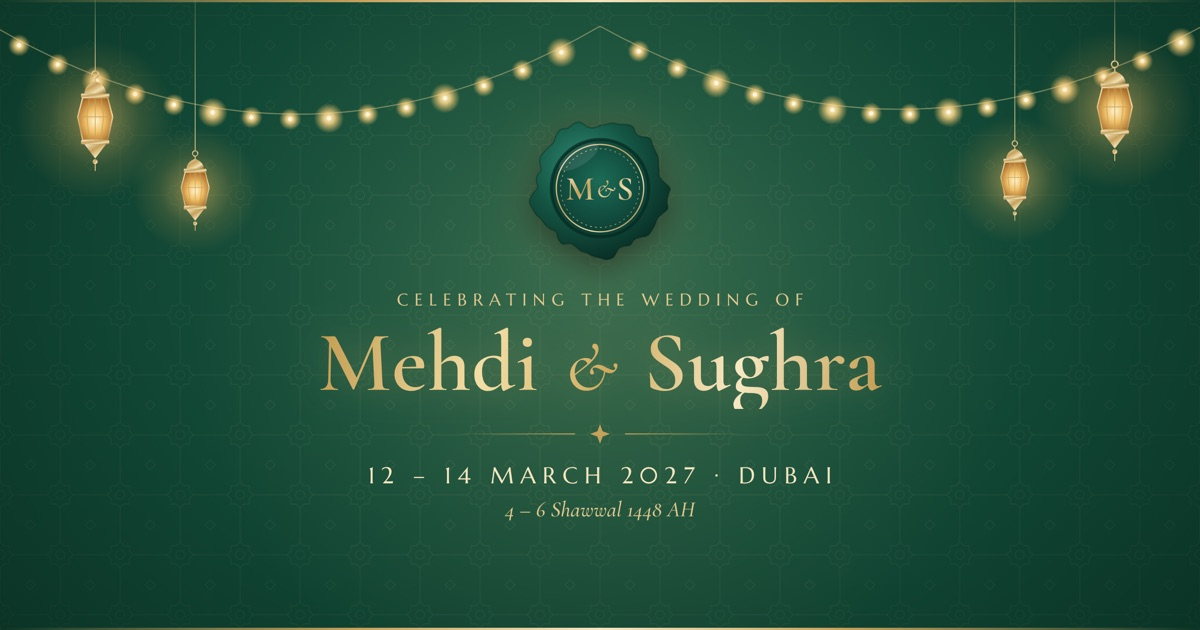
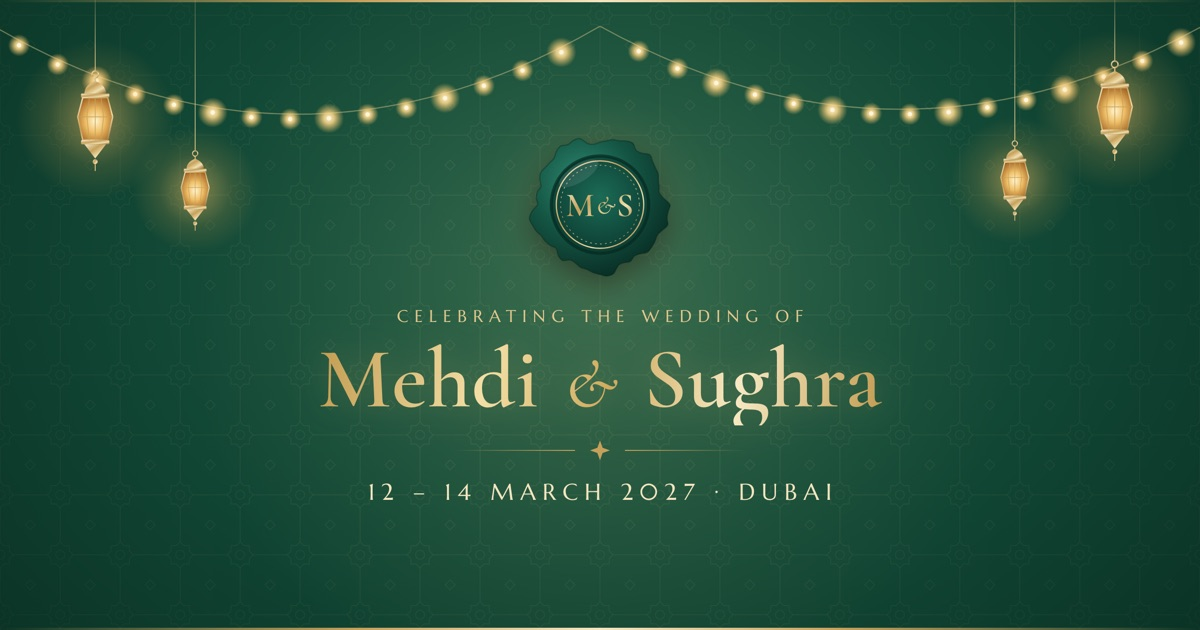
Remove Hijri dates and second dua; red tap text; livelier scroll cue
- No Hijri dates anywhere (hero, event cards, timeline, link preview image)
- Only the Al-Furqan 25:74 dua remains
- "Tap the seal to open" in deep red
- Hero kicker, parents' lines and city 2px larger; compliments larger
- Scroll cue glows with a cascading double chevron
- RSVP deadline 1 February 2027

diff --git a/index.html b/index.html
@@ -134,7 +134,7 @@ html:not(.js) #intro{display:none}
 .intro-overlay{position:absolute;inset:0;display:grid;grid-template-rows:1fr var(--seal) 1fr;justify-items:center;text-align:center;padding:0 24px;pointer-events:none;transition:opacity .45s ease}
 #intro.cracking .intro-overlay{opacity:0}
 .intro-bottom{grid-row:3;align-self:start;padding-top:clamp(22px,4vh,40px)}
-.intro-tap{font-family:var(--caps);font-size:.72rem;letter-spacing:.3em;text-transform:uppercase;color:var(--em-700);animation:breathe 2.4s ease-in-out infinite}
+.intro-tap{font-family:var(--caps);font-size:.72rem;letter-spacing:.3em;text-transform:uppercase;color:#B0222C;animation:breathe 2.4s ease-in-out infinite}
 .seal-btn{grid-row:2;align-self:center;width:var(--seal);height:var(--seal);border-radius:50%;border:0;background:none;padding:0;cursor:pointer;pointer-events:auto;animation:ring 2.4s ease-out infinite}
 .seal-btn:focus-visible{outline:2px solid var(--em-700);outline-offset:6px}
 .seal-btn svg{display:block;width:100%;height:100%;pointer-events:none;filter:drop-shadow(0 7px 10px rgba(30,20,5,.38))}
@@ -194,23 +194,28 @@ html:not(.js) #intro{display:none}
 .crest-mono{font-family:var(--script);font-size:29px}
 .crest-amp{font-family:var(--script);font-size:19px}
 
-.hero .kicker{font-family:var(--caps);font-size:.66rem;letter-spacing:.3em;white-space:nowrap;text-transform:uppercase;color:var(--gold-2)}
+.hero .kicker{font-family:var(--caps);font-size:calc(.66rem + 2px);letter-spacing:.3em;white-space:nowrap;text-transform:uppercase;color:var(--gold-2)}
 .names{margin:.55em 0 0;font-size:clamp(2rem,8.6vw,3.5rem);line-height:1.06;font-weight:600;letter-spacing:.005em;filter:drop-shadow(0 0 16px rgba(233,196,120,.28))}
 .names .n{display:block}
 .sheen{display:inline-block;padding:0 .05em .1em;background:linear-gradient(105deg,rgba(255,250,230,0) 42%,rgba(255,250,232,.95) 50%,rgba(255,250,230,0) 58%),linear-gradient(100deg,#C29B50 0%,#F3DFA6 30%,#CFAA5E 52%,#F7E9C3 74%,#B8914A 100%);background-size:300% 100%,100% 100%;background-position:100% 0,0 0;background-repeat:no-repeat;-webkit-background-clip:text;background-clip:text;color:transparent;animation:sheen 7s ease-in-out 3s infinite}
 .sheen.later{animation-delay:3.6s}
 @keyframes sheen{0%{background-position:100% 0,0 0}30%,100%{background-position:0% 0,0 0}}
-.names .parent{display:block;font-size:clamp(.88rem,3.4vw,1.06rem);font-style:italic;font-weight:500;letter-spacing:.01em;line-height:1.4;color:rgba(245,231,193,.78);margin-top:.35em}
+.names .parent{display:block;font-size:clamp(calc(.88rem + 2px),calc(3.4vw + 2px),calc(1.06rem + 2px));font-style:italic;font-weight:500;letter-spacing:.01em;line-height:1.4;color:rgba(245,231,193,.78);margin-top:.35em}
 .names .amp{display:block;font-style:italic;font-weight:400;font-size:.86em;line-height:1.15;color:var(--gold-2);margin:.18em 0 .08em}
 .amp-g{display:inline-block;animation:ampGlow 4.5s ease-in-out infinite}
 @keyframes ampGlow{0%,100%{text-shadow:0 0 0 rgba(240,205,130,0)}50%{text-shadow:0 0 20px rgba(240,205,130,.95)}}
 .hero .ornament{color:var(--gold);margin:20px auto 14px;width:min(200px,62%)}
 .hero-date{font-family:var(--caps);font-size:clamp(.82rem,3.4vw,1.02rem);letter-spacing:.26em;color:var(--gold-3);text-transform:uppercase}
-.hero-hijri{font-style:italic;color:var(--gold-2);margin-top:4px;font-size:1.02rem}
-.hero-city{font-family:var(--caps);font-size:.66rem;letter-spacing:.44em;text-transform:uppercase;color:var(--gold-2);margin-top:14px}
+.hero-city{font-family:var(--caps);font-size:calc(.66rem + 2px);letter-spacing:.44em;text-transform:uppercase;color:var(--gold-2);margin-top:14px}
 .scroll-cue{position:absolute;bottom:calc(14px + env(safe-area-inset-bottom,0px));left:50%;transform:translateX(-50%);z-index:7;display:flex;flex-direction:column;align-items:center;gap:4px;font-family:var(--caps);font-size:.62rem;letter-spacing:.32em;text-transform:uppercase;color:var(--gold-2);text-decoration:none;padding:6px 10px}
-.scroll-cue svg{animation:bob 2s ease-in-out infinite}
-@keyframes bob{0%,100%{transform:translateY(0)}50%{transform:translateY(5px)}}
+.scroll-cue{color:var(--gold-3)}
+.scroll-cue .cue-txt{animation:cueGlow 2.4s ease-in-out infinite}
+.scroll-cue svg{overflow:visible;animation:bob 1.8s ease-in-out infinite}
+.scroll-cue svg path{animation:cueChev 1.8s ease-in-out infinite}
+.scroll-cue svg path+path{animation-delay:.25s}
+@keyframes cueGlow{0%,100%{opacity:.75;text-shadow:0 0 0 rgba(245,214,140,0)}50%{opacity:1;text-shadow:0 0 10px rgba(245,214,140,.85),0 0 22px rgba(245,214,140,.35)}}
+@keyframes cueChev{0%,100%{opacity:.3}50%{opacity:1}}
+@keyframes bob{0%,100%{transform:translateY(0)}50%{transform:translateY(6px)}}
 .js .rise{opacity:0;transform:translateY(18px)}
 .js.revealed .rise{animation:rise 1.3s var(--ease) forwards;animation-delay:calc(1s + var(--i,0) * .15s)}
 @keyframes rise{to{opacity:1;transform:none}}
@@ -298,7 +303,6 @@ html:not(.js) #intro{display:none}
 .ev-tag{font-family:var(--caps);font-size:.64rem;letter-spacing:.3em;text-transform:uppercase;color:var(--gold-deep);padding:6px 14px 5px;border:1px solid var(--line);border-radius:99px;background:rgba(198,161,91,.08)}
 .ev-title{font-size:2.05rem;color:var(--em-800);margin:14px 0 6px;line-height:1.1}
 .ev-date{font-family:var(--caps);letter-spacing:.06em;font-size:.98rem;color:var(--ink)}
-.ev-hijri{font-style:italic;color:var(--gold-deep);font-size:1rem}
 .ev-time{color:var(--ink-2);font-size:1.05rem;margin-top:2px}
 .ev-rule{display:block;width:64px;height:1px;background:var(--line);margin:18px auto}
 .ev-venue{font-weight:600;font-size:1.4rem;color:var(--em-800);line-height:1.2;max-width:16em}
@@ -319,7 +323,6 @@ html:not(.js) #intro{display:none}
   .when-day{font-family:var(--script);font-size:2.7rem;line-height:1.1;color:var(--gold)}
   .when-num{font-size:7rem;line-height:.9;font-weight:500;color:var(--em-800);font-variant-numeric:lining-nums}
   .when-month{font-family:var(--caps);font-size:.8rem;letter-spacing:.3em;text-transform:uppercase;color:var(--ink-2);margin-top:10px}
-  .when-hijri{font-style:italic;color:var(--gold-deep);margin-top:4px}
 }
 
 .btn{position:relative;overflow:hidden;display:inline-flex;align-items:center;justify-content:center;gap:10px;min-height:50px;padding:12px 22px;border-radius:999px;font-family:var(--caps);font-size:.76rem;letter-spacing:.2em;text-transform:uppercase;text-decoration:none;cursor:pointer;border:1px solid transparent;transition:transform .2s var(--ease),box-shadow .2s,background-color .2s,color .2s;user-select:none;-webkit-user-select:none}
@@ -382,7 +385,7 @@ textarea.input:focus{box-shadow:0 0 0 1px var(--em-700)}
 .closing{padding-bottom:calc(46px + env(safe-area-inset-bottom,0px))}
 .closing-msg{max-width:30em;margin:14px auto 0;font-size:1.22rem;color:rgba(245,231,193,.94)}
 .compl{margin-top:34px}
-.compl ul{list-style:none;padding:0;margin:10px 0 0;color:rgba(245,231,193,.86);font-style:italic;font-size:1.1rem;line-height:1.7}
+.compl ul{list-style:none;padding:0;margin:12px 0 0;color:rgba(245,231,193,.9);font-style:italic;font-size:1.35rem;line-height:1.6}
 .hashtag{font-family:var(--caps);letter-spacing:.2em;color:var(--gold-2);margin-top:34px}
 .closing .btn{margin-top:22px}
 .footer-mini{margin-top:50px;font-family:var(--caps);font-size:.62rem;letter-spacing:.32em;text-transform:uppercase;color:rgba(245,231,193,.5)}
@@ -488,13 +491,12 @@ textarea.input:focus{box-shadow:0 0 0 1px var(--em-700)}
     </h1>
     <div class="ornament rise" style="--i:4"></div>
     <p class="hero-date rise" style="--i:5" id="heroDate"></p>
-    <p class="hero-hijri rise" style="--i:5" id="heroHijri"></p>
     <p class="hero-city rise" style="--i:6" data-t="city"></p>
   </div>
 
   <canvas class="fx fx-front" id="fxFront" aria-hidden="true"></canvas>
-  <a class="scroll-cue" href="#invite">Scroll
-    <svg width="18" height="18" viewBox="0 0 24 24" fill="none" stroke="currentColor" stroke-width="1.5" aria-hidden="true"><path d="M6 9l6 6 6-6"/></svg>
+  <a class="scroll-cue" href="#invite"><span class="cue-txt">Scroll</span>
+    <svg width="20" height="22" viewBox="0 0 24 26" fill="none" stroke="currentColor" stroke-width="1.6" stroke-linecap="round" stroke-linejoin="round" aria-hidden="true"><path d="M6 5l6 6 6-6"/><path d="M6 13l6 6 6-6"/></svg>
   </a>
 </header>
 
@@ -559,12 +561,6 @@ textarea.input:focus{box-shadow:0 0 0 1px var(--em-700)}
       <p class="dua-tr reveal">Rabbanā hab lanā min azwājinā wa dhurriyyātinā qurrata aʿyunin wajʿalnā lil-muttaqīna imāmā</p>
       <p class="dua-en reveal">“Our Lord, grant us joy and comfort in our spouses and our children, and make us leaders of the God-conscious.”</p>
       <p class="cite reveal">Surah Al-Furqan · 25:74</p>
-
-      <div class="ornament reveal"></div>
-
-      <p class="dua-ar reveal" lang="ar">وَمِنْ آيَاتِهِ أَنْ خَلَقَ لَكُم مِّنْ أَنفُسِكُمْ أَزْوَاجًا لِّتَسْكُنُوا إِلَيْهَا وَجَعَلَ بَيْنَكُم مَّوَدَّةً وَرَحْمَةً</p>
-      <p class="dua-en reveal">“And among His signs is that He created for you spouses from among yourselves, that you may find tranquillity in them; and He placed between you affection and mercy.”</p>
-      <p class="cite reveal">Surah Ar-Rum · 30:21</p>
     </div>
   </section>
 
@@ -719,7 +715,7 @@ const WEDDING = {
   ],
 
   rsvp: {
-    deadline: "1 March 2027",
+    deadline: "1 February 2027",
     whatsapp: "+1 (469) 971-0307",   // RSVPs go to this WhatsApp number (include the country code)
   },
 
@@ -772,28 +768,6 @@ const WEDDING = {
     if (e <= s) e = new Date(e.getTime() + 864e5);
     return e;
   };
-  /* Hijri dates. Some phones have the Islamic calendar but not its English month names, and fall back to
-     Gregorian names (Shawwal is month 10, so it showed as "October"). So ask for numbers only and name the
-     month here. Phones with no Islamic calendar at all hide the Hijri line rather than risk a wrong date. */
-  const HIJRI_MONTHS = ["Muharram", "Safar", "Rabi al-Awwal", "Rabi al-Thani", "Jumada al-Ula", "Jumada al-Akhirah", "Rajab", "Shaban", "Ramadan", "Shawwal", "Dhul Qadah", "Dhul Hijjah"];
-  let hijriFmt = null;
-  try {
-    const f = new Intl.DateTimeFormat("en-u-ca-islamic-umalqura-nu-latn", { timeZone: "UTC", day: "numeric", month: "numeric", year: "numeric" });
-    if (f.resolvedOptions().calendar.startsWith("islamic")) hijriFmt = f;
-  } catch (e) { /* no Intl Islamic calendar: the Hijri line stays hidden */ }
-  const hijriParts = s => {
-    if (!hijriFmt) return null;
-    const parts = hijriFmt.formatToParts(noonUTC(s));
-    const g = t => parseInt((parts.find(p => p.type === t) || {}).value, 10);
-    const d = g("day"), m = g("month"), y = g("year");
-    if (!(m >= 1 && m <= 12 && d >= 1 && d <= 30 && y > 1400 && y < 1600)) return null; // not a real Hijri date: hide it
-    return { d: String(d), m: HIJRI_MONTHS[m - 1], y: String(y) };
-  };
-  const hijriOf = ev => {
-    if (ev.hijri) return ev.hijri;
-    const h = hijriParts(ev.date);
-    return h ? `${h.d} ${h.m} ${h.y} AH` : "";
-  };
   const sorted = W.events.map(e => e.date).sort();
   const first = sorted[0], last = sorted[sorted.length - 1];
   const dayIndex = s => Math.round((noonUTC(s) - noonUTC(first)) / 864e5);
@@ -805,10 +779,6 @@ const WEDDING = {
     return `${fmt(a, { day: "numeric", month: "short", year: "numeric" })} – ${fmt(b, { day: "numeric", month: "short", year: "numeric" })}`;
   };
   $("#heroDate").textContent = rangeText(first, last);
-  const h1 = hijriParts(first), h2 = hijriParts(last);
-  $("#heroHijri").textContent = !h1 ? "" : (h1.m === h2.m && h1.y === h2.y)
-    ? (first === last ? `${h1.d} ${h1.m} ${h1.y} AH` : `${h1.d} – ${h2.d} ${h1.m} ${h1.y} AH`)
-    : `${h1.d} ${h1.m} – ${h2.d} ${h2.m} ${h2.y} AH`;
   const mainEv = W.events.find(e => e.main) || W.events[0];
   const countWords = ["", "One", "Two", "Three", "Four", "Five", "Six"];
   $("#eventsSub").textContent = `${countWords[W.events.length] || W.events.length} celebrations in ${W.city}, in shaa Allah`;
@@ -884,7 +854,7 @@ const WEDDING = {
     /* Each line of hero text as a box (hero coordinates, without the rise/parallax transforms), padded. */
     function textBoxes() {
       const hr = hero.getBoundingClientRect(), out = [];
-      $$(".kicker, .names .n, .names .parent, .names .amp, .hero-date, .hero-hijri, .hero-city", hero).forEach(el => {
+      $$(".kicker, .names .n, .names .parent, .names .amp, .hero-date, .hero-city", hero).forEach(el => {
         let ox = 0, oy = 0, e = el;
         while (e && e !== hero) { ox += e.offsetLeft; oy += e.offsetTop; e = e.offsetParent; }
         if (e !== hero) return;
@@ -1134,21 +1104,18 @@ const WEDDING = {
 
   const journey = $("#journey");
   journey.innerHTML = `<div class="j-track" aria-hidden="true"><div class="j-fill"></div></div>` + W.events.map((ev, i) => {
-    const hj = hijriOf(ev);
     return `<div class="stop${i % 2 ? " alt" : ""}">
       <span class="j-node" aria-hidden="true"></span>
       <div class="when reveal" aria-hidden="true">
         <span class="when-day">${esc(fmt(ev.date, { weekday: "long" }))}</span>
         <span class="when-num">${esc(fmt(ev.date, { day: "numeric" }))}</span>
         <span class="when-month">${esc(fmt(ev.date, { month: "long", year: "numeric" }))}</span>
-        ${hj ? `<span class="when-hijri">${esc(hj)}</span>` : ""}
       </div>
       <article class="ev reveal">
         <div class="ev-icon" aria-hidden="true">${ICONS[ev.icon] || ICONS.rings}</div>
         <span class="ev-tag">Day ${esc(countWords[dayIndex(ev.date) + 1] || dayIndex(ev.date) + 1)}</span>
         <h3 class="ev-title">${esc(ev.title)}</h3>
         <p class="ev-date">${esc(longDate(ev.date))}</p>
-        ${hj ? `<p class="ev-hijri">${esc(hj)}</p>` : ""}
         <p class="ev-time">${esc(ev.timeText)}</p>
         <span class="ev-rule" aria-hidden="true"></span>
         <p class="ev-venue">${esc(ev.venue)}</p>

diff --git a/tools/preview-card.html b/tools/preview-card.html
@@ -33,7 +33,6 @@ body{position:relative;background:radial-gradient(85% 120% at 50% 42%,#1B5D46 0%
 .orn b{display:block;width:120px;height:1px;background:linear-gradient(90deg,transparent,currentColor)}
 .orn b+svg+b{background:linear-gradient(-90deg,transparent,currentColor)}
 .date{font-family:Marcellus,Georgia,serif;font-size:23px;letter-spacing:.28em;padding-left:.28em;text-transform:uppercase;color:var(--gold-3)}
-.hijri{margin-top:6px;font-style:italic;font-weight:500;font-size:22px;color:var(--gold-2)}
 </style>
 </head>
 <body>
@@ -71,7 +70,6 @@ body{position:relative;background:radial-gradient(85% 120% at 50% 42%,#1B5D46 0%
   <div class="names">Mehdi <i>&amp;</i> Sughra</div>
   <div class="orn"><b></b><svg width="22" height="22" viewBox="-11 -11 22 22"><path d="M0-10L2.6-2.6L10 0L2.6 2.6L0 10L-2.6 2.6L-10 0L-2.6-2.6Z" fill="currentColor"/></svg><b></b></div>
   <div class="date">12 – 14 March 2027 · Dubai</div>
-  <div class="hijri">4 – 6 Shawwal 1448 AH</div>
 </div>
 <script>
 /* Two sagging strands of fairy lights across the top. */
